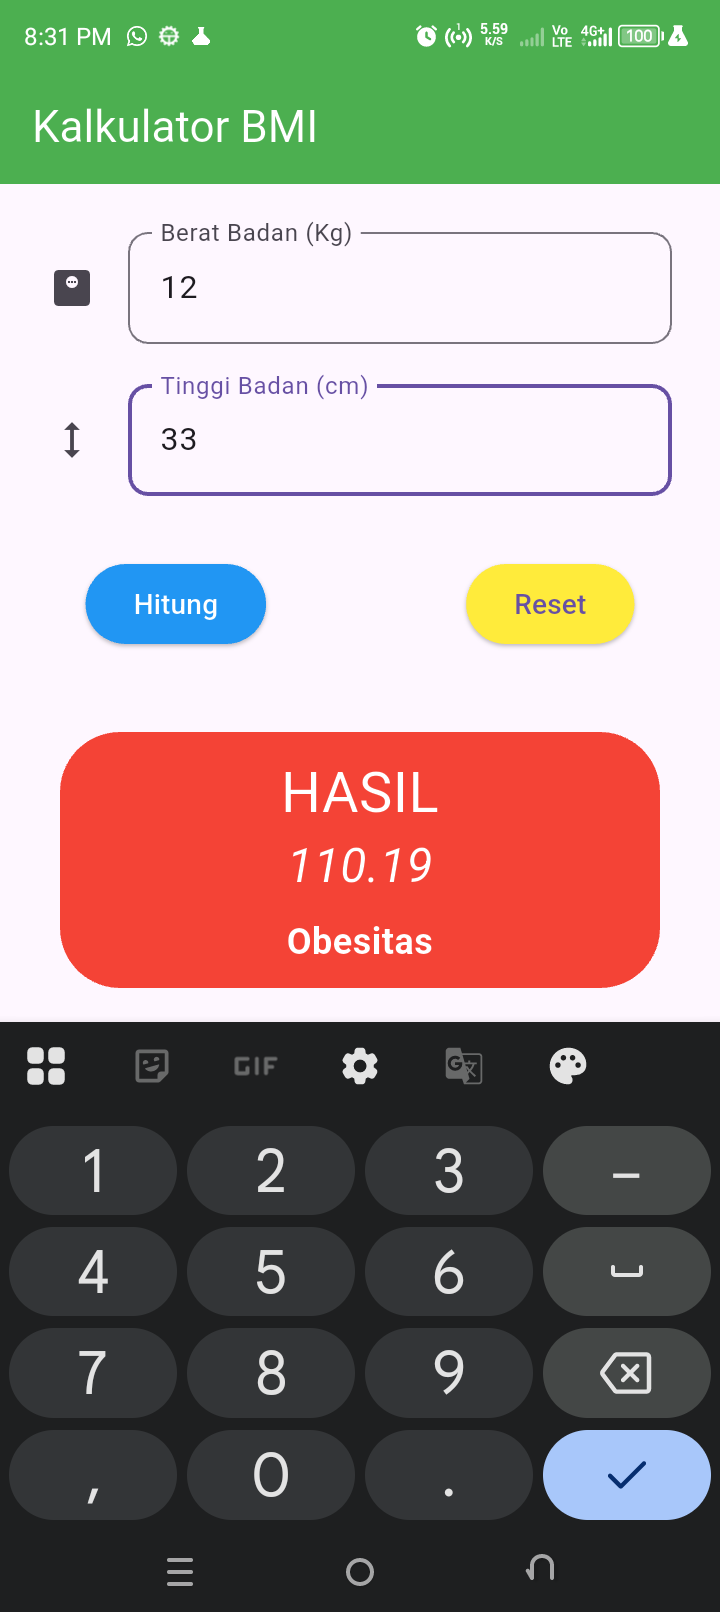
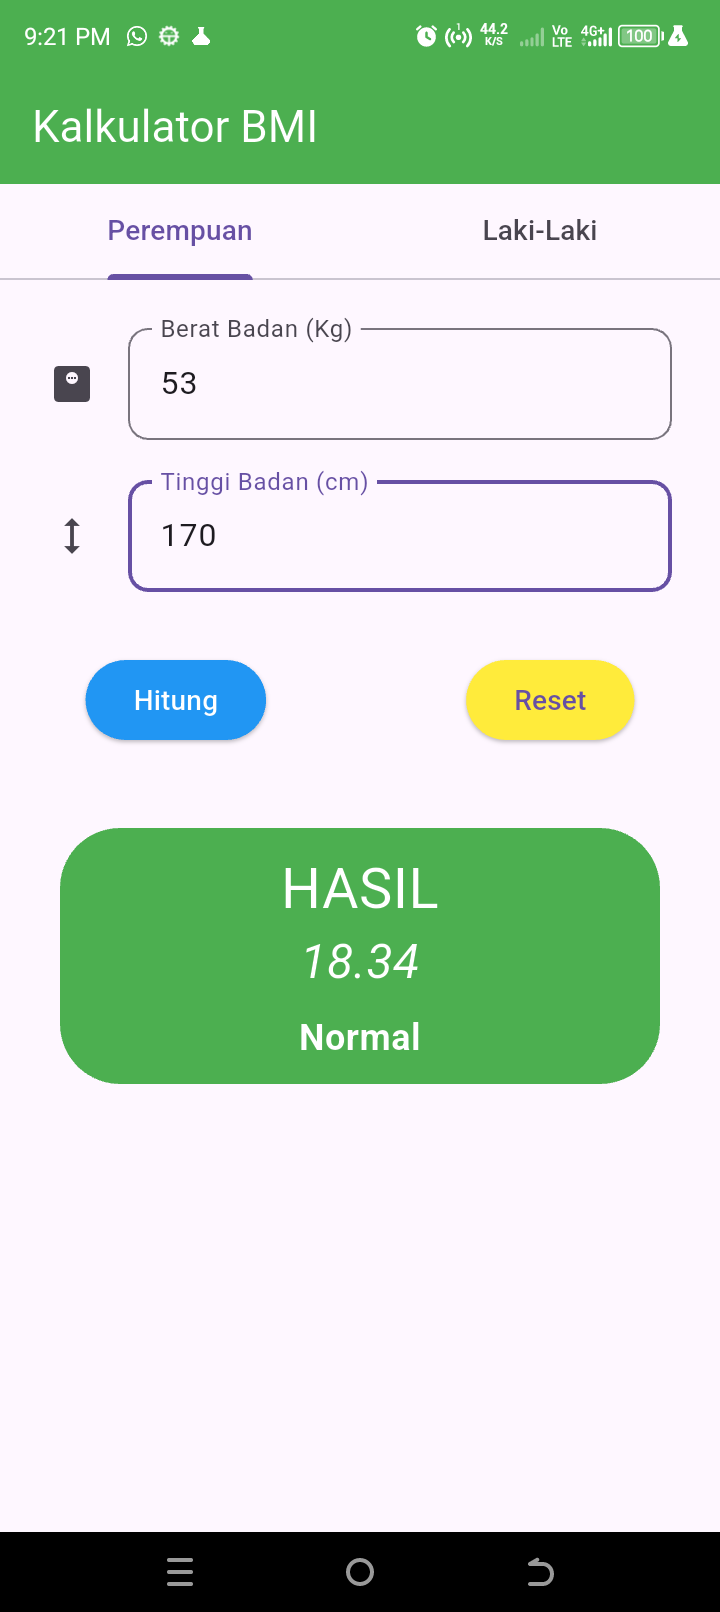
update

diff --git a/lib/main.dart b/lib/main.dart
@@ -1,5 +1,7 @@
 import 'package:flutter/material.dart';
 
+enum Gender {Perempuan,Lelaki}
+
 void main() {
   runApp(const KalkulatorBMIApp());
 }
@@ -27,27 +29,6 @@ class KalkulatorBMIScreen extends StatefulWidget {
 
 class _KalkulatorBMIScreenState extends State<KalkulatorBMIScreen> {
 
-  final _weightController = TextEditingController();
-  final _heightController = TextEditingController();
-
-  double? _bmiResult = null;
-
-  void _hitungBMI(){
-    final double weight = double.tryParse(_weightController.text) ?? 0;
-    final double heightInCM = double.tryParse(_heightController.text) ?? 0;
-
-
-    setState(() {
-      if(weight > 0 && heightInCM > 0 ){
-        final double  heightInM = heightInCM/100;
-        final double bmi = weight/(heightInM*heightInM);
-        _bmiResult = bmi;
-
-      }else{
-        _bmiResult=null;
-      }
-    });
-  }
   @override
   Widget build(BuildContext context) {
     return Scaffold(
@@ -55,59 +36,21 @@ class _KalkulatorBMIScreenState extends State<KalkulatorBMIScreen> {
         title: Text("Kalkulator BMI", style: TextStyle(color: Colors.white),),
         backgroundColor: Colors.green,
       ),
-      body: SingleChildScrollView(
-        padding: EdgeInsets.all(24),
-        child: Column(
-          crossAxisAlignment: CrossAxisAlignment.center,
-          children: [
-            TextField(
-              keyboardType: TextInputType.numberWithOptions(decimal: true),
-              controller: _weightController,
-              decoration: InputDecoration(
-                labelText: "Berat Badan (Kg)",
-                icon: Icon(Icons.monitor_weight),
-                border: OutlineInputBorder(
-                  borderRadius: BorderRadius.circular(10),
-                ),
-
-              ),
+      body: DefaultTabController(
+          length: 2,
+          child: Column(children: [
+            TabBar(
+              tabs: [
+                Tab(text: "Perempuan"),
+                Tab(text: "Laki-Laki"),
+              ],
             ),
-            SizedBox(height: 20,),
-            TextField(
-              keyboardType: TextInputType.numberWithOptions(decimal: true),
-              controller: _heightController,
-              decoration: InputDecoration(
-                labelText: "Tinggi Badan (cm)",
-                icon: Icon(Icons.height),
-                border: OutlineInputBorder(
-                  borderRadius: BorderRadius.circular(10),
-                ),
-              ),
-            ),
-            SizedBox(height: 30),
-            Row(
-              mainAxisAlignment: MainAxisAlignment.center,
-              children: [
-              ElevatedButton(onPressed: _hitungBMI, style: ButtonStyle(
-                backgroundColor: WidgetStatePropertyAll(Colors.blue),
-              ),
-                child: Text("Hitung", style: TextStyle(color: Colors.white),),
-              ),
-              SizedBox(width: 100),
-              ElevatedButton(onPressed: () {
-                setState(() {
-                  _weightController.clear();
-                  _heightController.clear();
-                  _bmiResult = null;
-                });
-              }, style: ButtonStyle(backgroundColor: WidgetStatePropertyAll(Colors.yellow), ),
-                  child: Text("Reset")),
-
-            ]),
-            SizedBox(height: 40),
-            BMIResultDisplay(_bmiResult),
-          ],
-        ),
+            Expanded(child: TabBarView(children: [
+              BMIFormWidget(Gender.Perempuan),
+              BMIFormWidget(Gender.Lelaki)
+            ])
+            )
+          ])
       ),
     );
   }
@@ -117,22 +60,42 @@ class BMIResultDisplay extends StatelessWidget {
   String _bmiInterpretation = "";
   final double? _bmiResult;
   Color _bmiColor = Colors.green;
+  Gender? _gender = null;
 
 
-  BMIResultDisplay(this._bmiResult) {
-    if (_bmiResult == null) return;
-    if(_bmiResult! < 18.5){
-      this._bmiInterpretation = "Kekurangan Berat Badan";
-      this._bmiColor = Colors.red;
-    }else if(_bmiResult! < 25){
-      this._bmiInterpretation = "Berat Badan Ideal";
-      this._bmiColor = Colors.green;
-    }else if(_bmiResult! < 30){
-      this._bmiInterpretation = "Kelebihan Berat Badan";
-      this._bmiColor = Colors.red;
-    }else{
-      this._bmiInterpretation = "Obesitas";
-      this._bmiColor = Colors.red;
+  BMIResultDisplay(this._bmiResult, this._gender) {
+    if(_bmiResult == null || this._gender == null) return;
+    switch (_gender) {
+      case Gender.Lelaki:
+        if (_bmiResult! < 20.0) {
+          _bmiInterpretation = 'Kurus';
+          _bmiColor = Colors.yellow;
+        } else if (_bmiResult! >= 20.0 && _bmiResult! <= 25.0) {
+          _bmiInterpretation = 'Normal';
+          _bmiColor = Colors.green;
+        } else if (_bmiResult! > 25.0 && _bmiResult! <= 30.0) {
+          _bmiInterpretation = 'Gemuk';
+          _bmiColor = Colors.orange;
+        } else {
+          _bmiInterpretation = 'Obesitas';
+          _bmiColor = Colors.red;
+        }
+      case Gender.Perempuan:
+        if (_bmiResult! < 18.0) {
+          _bmiInterpretation = 'Kurus';
+          _bmiColor = Colors.yellow;
+        } else if (_bmiResult! >= 18.0 && _bmiResult! <= 23.0) {
+          _bmiInterpretation = 'Normal';
+          _bmiColor = Colors.green;
+        } else if (_bmiResult! > 23.0 && _bmiResult! <= 27.0) {
+          _bmiInterpretation = 'Gemuk';
+          _bmiColor = Colors.orange;
+        } else {
+          _bmiInterpretation = 'Obesitas';
+          _bmiColor = Colors.red;
+        }
+      default:
+        throw UnimplementedError("unknown gender " + _gender.toString());
     }
   }
 
@@ -140,30 +103,120 @@ class BMIResultDisplay extends StatelessWidget {
   Widget build(BuildContext context) {
     double screenWidth = MediaQuery.sizeOf(context).width;
     return (this._bmiResult != null) ? SizedBox(
-      width: 300,
-      child: Container(
-        decoration: BoxDecoration(color: _bmiColor, borderRadius: BorderRadius.circular(30)),
-        padding: EdgeInsets.all(10),
-        child: Column(
-        mainAxisAlignment: MainAxisAlignment.center,
-        children: [
-          Text( "HASIL", textAlign: TextAlign.center, style: TextStyle(color: Colors.white, fontSize: 28)),
-          Text(
-            _bmiResult?.toStringAsFixed(2) ?? "",
-            textAlign: TextAlign.center,
-            style: TextStyle(color: Colors.white, fontSize: 24, fontStyle: FontStyle.italic),
+        width: 300,
+        child: Container(
+          decoration: BoxDecoration(color: _bmiColor, borderRadius: BorderRadius.circular(30)),
+          padding: EdgeInsets.all(10),
+          child: Column(
+            mainAxisAlignment: MainAxisAlignment.center,
+            children: [
+              Text( "HASIL", textAlign: TextAlign.center, style: TextStyle(color: Colors.white, fontSize: 28)),
+              Text(
+                _bmiResult?.toStringAsFixed(2) ?? "",
+                textAlign: TextAlign.center,
+                style: TextStyle(color: Colors.white, fontSize: 24, fontStyle: FontStyle.italic),
+              ),
+              SizedBox(height: 8,),
+              Text(
+                _bmiInterpretation,
+                textAlign: TextAlign.center,
+                style: TextStyle(color: Colors.white, fontSize: 18, fontWeight: FontWeight.bold,),
+              ),
+            ],
           ),
-          SizedBox(height: 8,),
-          Text(
-            _bmiInterpretation,
-            textAlign: TextAlign.center,
-            style: TextStyle(color: Colors.white, fontSize: 18, fontWeight: FontWeight.bold,),
-          ),
-        ],
-      ),
-      )
+        )
     ): Text("Silahkan masukkan data Anda!", style: TextStyle(fontSize: 24, fontStyle: FontStyle.italic), textAlign: TextAlign.center);
 
   }
 
+}
+
+class BMIFormWidget extends StatefulWidget {
+  final Gender _gender;
+  BMIFormWidget(this._gender);
+  @override
+  State<StatefulWidget> createState() => BMIFormWidgetState(this._gender);
+}
+
+class BMIFormWidgetState extends State<BMIFormWidget> {
+  final _weightController = TextEditingController();
+  final _heightController = TextEditingController();
+  double? _bmiResult = null;
+  final Gender _gender;
+
+  BMIFormWidgetState(this._gender);
+
+  void _hitungBMI() {
+    final double weight = double.tryParse(_weightController.text) ?? 0;
+    final double heightInCM = double.tryParse(_heightController.text) ?? 0;
+
+
+    setState(() {
+      if (weight > 0 && heightInCM > 0) {
+        final double heightInM = heightInCM / 100;
+        final double bmi = weight / (heightInM * heightInM);
+        _bmiResult = bmi;
+      } else {
+        _bmiResult = null;
+      }
+    });
+  }
+
+  @override
+  Widget build(BuildContext context) {
+    return SingleChildScrollView(
+      padding: EdgeInsets.all(24),
+      child: Column(
+        crossAxisAlignment: CrossAxisAlignment.center,
+        children: [
+          TextField(
+            keyboardType: TextInputType.numberWithOptions(decimal: true),
+            controller: _weightController,
+            decoration: InputDecoration(
+              labelText: "Berat Badan (Kg)",
+              icon: Icon(Icons.monitor_weight),
+              border: OutlineInputBorder(
+                borderRadius: BorderRadius.circular(10),
+              ),
+
+            ),
+          ),
+          SizedBox(height: 20,),
+          TextField(
+            keyboardType: TextInputType.numberWithOptions(decimal: true),
+            controller: _heightController,
+            decoration: InputDecoration(
+              labelText: "Tinggi Badan (cm)",
+              icon: Icon(Icons.height),
+              border: OutlineInputBorder(
+                borderRadius: BorderRadius.circular(10),
+              ),
+            ),
+          ),
+          SizedBox(height: 30),
+          Row(
+              mainAxisAlignment: MainAxisAlignment.center,
+              children: [
+                ElevatedButton(onPressed: _hitungBMI, style: ButtonStyle(
+                  backgroundColor: WidgetStatePropertyAll(Colors.blue),
+                ),
+                  child: Text("Hitung", style: TextStyle(color: Colors.white),),
+                ),
+                SizedBox(width: 100),
+                ElevatedButton(onPressed: () {
+                  setState(() {
+                    _weightController.clear();
+                    _heightController.clear();
+                    _bmiResult = null;
+                  });
+                }, style: ButtonStyle(backgroundColor: WidgetStatePropertyAll(Colors.yellow), ),
+                    child: Text("Reset")),
+
+              ]),
+          SizedBox(height: 40),
+          BMIResultDisplay(_bmiResult, this._gender),
+        ],
+      ),
+    );
+  }
 }

diff --git a/README.md b/README.md
@@ -6,3 +6,6 @@
 ![screenshot](./img/ss_1.png)
 ![screenshot](./img/ss_2.png)
 ![screenshot](./img/ss_3.png)
+![screenshot](./img/ss_4.png)
+![screenshot](./img/ss_5.png)
+![screenshot](./img/ss_6.png)
